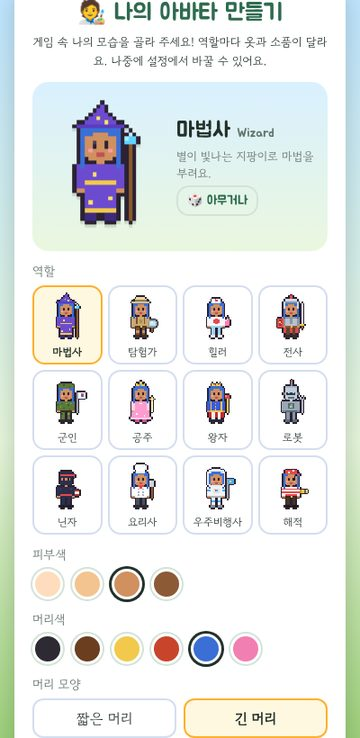
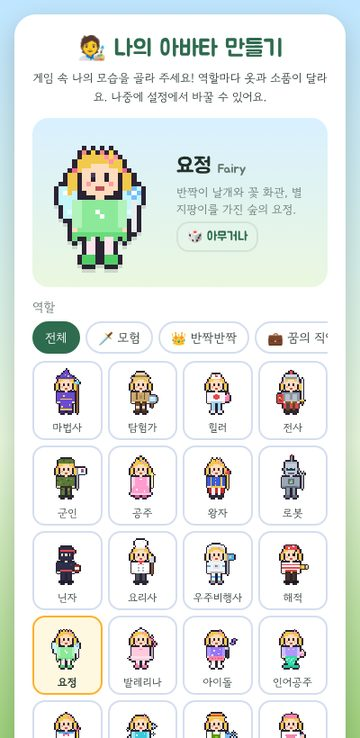
아바타: 여자 아이들을 위한 역할 10가지 + 머리 모양·장식 추가
- 요정·발레리나·아이돌·인어공주·마법소녀·피겨 선수·꽃 정원사·파티시에·수의사·화가 (모두 22가지)
- 머리 모양: 양갈래·포니테일·똥머리, 머리 장식: 리본·꽃핀·머리띠·별핀
- 역할 묶음 탭: 모험 / 반짝반짝 / 꿈의 직업
- README·설명서 갱신

Claude-Session: https://claude.ai/code/session_01LTi17QLDfgcv9py89CBzzb

diff --git a/js/avatar.js b/js/avatar.js
@@ -1,6 +1,6 @@
 // 🧑🎨 나의 픽셀 아바타
-// - 역할(마법사·탐험가·힐러·전사·군인·공주·왕자·로봇·닌자·요리사·우주비행사·해적)마다 옷과 소품이 달라요.
-// - 피부색·머리색·머리 모양을 고를 수 있어요.
+// - 역할 22가지(모험·반짝반짝·꿈의 직업)마다 옷과 소품이 달라요.
+// - 피부색·머리색·머리 모양(짧은·긴·양갈래·포니테일·똥머리)·머리 장식을 고를 수 있어요.
 // - 26×33 칸에 한 칸씩 색을 칠한 뒤, 바깥 테두리를 자동으로 그려 픽셀 게임 느낌을 내요. (SVG로 그려 어디서나 선명)
 
 export const ROLES = [
@@ -16,21 +16,50 @@ export const ROLES = [
   { id: 'chef', name: '요리사', en: 'Chef', desc: '높은 모자를 쓰고 맛있는 요리를 해요.' },
   { id: 'astronaut', name: '우주비행사', en: 'Astronaut', desc: '헬멧을 쓰고 우주로 출발!' },
   { id: 'pirate', name: '해적', en: 'Pirate', desc: '망원경으로 보물섬을 찾는 해적.' },
+  { id: 'fairy', name: '요정', en: 'Fairy', desc: '반짝이 날개와 꽃 화관, 별 지팡이를 가진 숲의 요정.' },
+  { id: 'ballerina', name: '발레리나', en: 'Ballerina', desc: '하늘하늘 튀튀를 입고 리본을 휘날려요.' },
+  { id: 'idol', name: '아이돌', en: 'Idol', desc: '반짝이 무대 옷에 마이크! 노래하고 춤춰요.' },
+  { id: 'mermaid', name: '인어공주', en: 'Mermaid', desc: '반짝이는 꼬리로 바다를 헤엄쳐요.' },
+  { id: 'magical', name: '마법소녀', en: 'Magical Girl', desc: '하트 요술봉으로 세상을 지켜요!' },
+  { id: 'skater', name: '피겨 선수', en: 'Figure Skater', desc: '하얀 스케이트로 얼음 위를 빙글빙글.' },
+  { id: 'gardener', name: '꽃 정원사', en: 'Gardener', desc: '밀짚모자를 쓰고 물뿌리개로 꽃을 키워요.' },
+  { id: 'baker', name: '파티시에', en: 'Baker', desc: '달콤한 컵케이크를 만드는 제빵사.' },
+  { id: 'vet', name: '수의사', en: 'Vet', desc: '청진기를 걸고 아픈 강아지를 돌봐요.' },
+  { id: 'artist', name: '화가', en: 'Artist', desc: '베레모를 쓰고 팔레트로 그림을 그려요.' },
+];
+// 역할 묶음 (만들기 화면 탭)
+export const ROLE_CATS = [
+  { id: 'all', name: '전체' },
+  { id: 'adv', name: '🗡 모험', roles: ['wizard', 'explorer', 'warrior', 'soldier', 'ninja', 'pirate', 'robot', 'astronaut'] },
+  { id: 'sparkle', name: '👑 반짝반짝', roles: ['princess', 'prince', 'fairy', 'ballerina', 'idol', 'mermaid', 'magical', 'skater'] },
+  { id: 'job', name: '💼 꿈의 직업', roles: ['healer', 'chef', 'gardener', 'baker', 'vet', 'artist'] },
 ];
 export const roleById = Object.fromEntries(ROLES.map(r => [r.id, r]));
 
 export const SKINS = ['#ffdcbd', '#f3c48f', '#d09060', '#8d5a36'];
 export const HAIRS = ['#2e2a33', '#6b3e1f', '#f2c94c', '#c8452c', '#3b6fd6', '#f27fb2'];
 export const HAIR_NAMES = ['검정', '갈색', '금발', '빨강', '파랑', '분홍'];
-export const STYLES = [{ id: 'short', name: '짧은 머리' }, { id: 'long', name: '긴 머리' }];
+export const STYLES = [
+  { id: 'short', name: '짧은 머리' }, { id: 'long', name: '긴 머리' }, { id: 'pigtails', name: '양갈래' },
+  { id: 'ponytail', name: '포니테일' }, { id: 'bun', name: '똥머리' },
+];
+export const ACCS = [
+  { id: 'none', name: '없음' }, { id: 'ribbon', name: '🎀 리본' }, { id: 'flower', name: '🌸 꽃핀' },
+  { id: 'headband', name: '머리띠' }, { id: 'star', name: '⭐ 별핀' },
+];
+const STYLE_IDS = STYLES.map(x => x.id);
+const ACC_IDS = ACCS.map(x => x.id);
 
-export const DEFAULT_AVATAR = { role: 'explorer', skin: 0, hair: 1, style: 'short' };
+export const DEFAULT_AVATAR = { role: 'explorer', skin: 0, hair: 1, style: 'short', acc: 'none' };
 
 /** 저장된 값·친구에게 받은 값을 믿지 않고 아는 값만 남김 */
 export function cleanAvatar(a) {
   if (!a || typeof a !== 'object' || !roleById[a.role]) return null;
   const n = (v, max) => (Number.isInteger(v) && v >= 0 && v < max ? v : 0);
-  return { role: a.role, skin: n(a.skin, SKINS.length), hair: n(a.hair, HAIRS.length), style: a.style === 'long' ? 'long' : 'short' };
+  return {
+    role: a.role, skin: n(a.skin, SKINS.length), hair: n(a.hair, HAIRS.length),
+    style: STYLE_IDS.includes(a.style) ? a.style : 'short', acc: ACC_IDS.includes(a.acc) ? a.acc : 'none',
+  };
 }
 
 const W = 26;
@@ -50,7 +79,7 @@ function draw(av) {
   const rect = (x, y, w, h, c) => { for (let j = 0; j < h; j++) for (let i = 0; i < w; i++) px(x + i, y + j, c); };
   const skin = av.role === 'robot' ? '#c3ccd6' : SKINS[av.skin];
   const hair = HAIRS[av.hair];
-  const long = av.style === 'long';
+  const long = av.style === 'long' || av.style === 'pigtails';
   const role = av.role;
 
   // 옷 색 (윗옷, 소매, 바지, 신발)
@@ -67,18 +96,38 @@ function draw(av) {
     chef: ['#ffffff', '#ffffff', '#4a4f5a', '#2b2b33'],
     astronaut: ['#f1f3f5', '#f1f3f5', '#f1f3f5', '#868e96'],
     pirate: ['#ffffff', '#ffffff', '#4a3324', '#1f1a17'],
+    fairy: ['#8ce99a', '#b2f2bb', '#ffe3ec', '#51cf66'],
+    ballerina: ['#ffc9de', '#ffc9de', '#ffe3ec', '#f783ac'],
+    idol: ['#9775fa', '#b197fc', skin, '#ffffff'],
+    mermaid: ['#b197fc', '#d0bfff', '#38d9a9', '#20c997'],
+    magical: ['#ffffff', '#ffffff', skin, '#f783ac'],
+    skater: ['#3bc9db', '#99e9f2', '#ffe3ec', '#ffffff'],
+    gardener: ['#ffffff', '#ffffff', '#5c940d', '#8b5a2b'],
+    baker: ['#ffffff', '#ffffff', '#f783ac', '#c2255c'],
+    vet: ['#74c0fc', '#74c0fc', '#74c0fc', '#ffffff'],
+    artist: ['#fff9db', '#fff9db', '#4dabf7', '#495057'],
   }[role];
+  const noHair = role === 'robot' || role === 'ninja';
+  const hideBack = noHair || role === 'astronaut';
+  const style = av.style;
   const [top, sleeve, pants, shoes] = O;
 
   // ---- 뒤쪽 (망토·긴 머리) ----
   if (role === 'warrior' || role === 'prince') rect(5, 14, 10, 11, role === 'warrior' ? '#d94a4a' : '#c92a2a');
-  if (long && role !== 'robot' && role !== 'ninja' && role !== 'astronaut') { rect(5, 6, 1, 9, hair); rect(14, 6, 1, 9, hair); }
+  if (av.style === 'long' && !hideBack) { rect(5, 6, 1, 9, hair); rect(14, 6, 1, 9, hair); }
+  if (role === 'fairy') { // 반짝이 날개
+    const wg = '#c5f6fa';
+    rect(1, 11, 4, 4, wg); rect(2, 15, 3, 3, wg); rect(15, 11, 4, 4, wg); rect(15, 15, 3, 3, wg);
+    px(2, 12, '#ffffff'); px(16, 12, '#ffffff'); px(3, 16, '#e3fafc'); px(16, 16, '#e3fafc');
+  }
   if (role === 'astronaut') rect(4, 14, 1, 6, '#ced4da'); // 산소통
 
-  // ---- 다리·신발 ----
-  rect(7, 21, 2, 5, pants); rect(11, 21, 2, 5, pants);
-  if (role === 'explorer') { rect(7, 23, 2, 2, skin); rect(11, 23, 2, 2, skin); }
-  rect(6, 26, 3, 2, shoes); rect(11, 26, 3, 2, shoes);
+  // ---- 다리·신발 (인어공주는 꼬리) ----
+  if (role !== 'mermaid') {
+    rect(7, 21, 2, 5, pants); rect(11, 21, 2, 5, pants);
+    if (role === 'explorer') { rect(7, 23, 2, 2, skin); rect(11, 23, 2, 2, skin); }
+    rect(6, 26, 3, 2, shoes); rect(11, 26, 3, 2, shoes);
+  }
 
   // ---- 몸통·팔 ----
   rect(6, 14, 8, 7, top);
@@ -96,11 +145,23 @@ function draw(av) {
     rect(9, 11, 2, 1, C.mouth);
   }
   // 머리카락 (모자 아래로 앞머리·옆머리)
-  if (role !== 'robot' && role !== 'ninja') {
+  if (!noHair) {
     rect(6, 4, 8, 2, hair); px(5, 5, hair); px(14, 5, hair);
     px(6, 6, hair); px(7, 6, hair); px(12, 6, hair); px(13, 6, hair);
     px(5, 6, hair); px(14, 6, hair); px(5, 7, hair); px(14, 7, hair);
-    if (long) { rect(5, 8, 1, 7, hair); rect(14, 8, 1, 7, hair); }
+    if (style === 'long') { rect(5, 8, 1, 7, hair); rect(14, 8, 1, 7, hair); }
+    if (style === 'pigtails') { // 양갈래
+      px(4, 7, '#f06595'); px(15, 7, '#f06595');
+      rect(3, 8, 2, 4, hair); rect(15, 8, 2, 4, hair); px(3, 12, hair); px(16, 12, hair);
+    }
+    if (style === 'ponytail') { px(15, 5, '#f06595'); rect(15, 6, 2, 4, hair); rect(15, 10, 1, 3, hair); }
+    if (style === 'bun') { rect(8, 2, 4, 2, hair); rect(9, 1, 2, 1, hair); px(9, 2, hair); }
+    // 머리 장식 (모자를 쓰면 모자가 덮어요)
+    const PK = '#f06595';
+    if (av.acc === 'ribbon') { px(5, 2, PK); px(5, 3, PK); px(7, 2, PK); px(7, 3, PK); px(6, 3, '#c2255c'); }
+    if (av.acc === 'flower') { px(12, 4, '#ffd43b'); px(11, 4, '#ff8fb8'); px(13, 4, '#ff8fb8'); px(12, 3, '#ff8fb8'); px(12, 5, '#ff8fb8'); }
+    if (av.acc === 'headband') rect(6, 4, 8, 1, PK);
+    if (av.acc === 'star') { px(12, 3, '#ffd43b'); px(11, 4, '#ffd43b'); px(12, 4, '#fff3bf'); px(13, 4, '#ffd43b'); px(12, 5, '#ffd43b'); }
   }
 
   // ---- 역할별 옷 무늬·모자·소품 ----
@@ -204,6 +265,87 @@ function draw(av) {
     }
   }
 
+  switch (role) {
+    case 'fairy': {
+      rect(5, 20, 10, 1, '#8ce99a'); rect(4, 21, 12, 1, '#69db7c'); for (const x of [4, 7, 10, 13, 15]) px(x, 22, '#69db7c');
+      for (const [x, c] of [[6, '#ff8787'], [8, '#ffd43b'], [10, '#ff8787'], [12, '#ffd43b']]) px(x, 3, c);
+      px(9, 16, '#ffffff'); px(10, 17, '#ffffff');
+      rect(17, 14, 1, 7, '#e9ecef'); rect(16, 12, 3, 1, '#74c0fc'); rect(17, 11, 1, 3, '#74c0fc'); px(17, 12, '#ffffff');
+      break;
+    }
+    case 'ballerina': {
+      rect(3, 20, 14, 2, '#ffdeeb'); px(2, 21, '#ffdeeb'); px(17, 21, '#ffdeeb'); rect(4, 22, 12, 1, '#fcc2d7');
+      px(9, 15, '#f783ac'); px(10, 15, '#f783ac'); px(7, 25, '#f783ac'); px(12, 25, '#f783ac');
+      rect(8, 3, 4, 1, '#e9ecef'); px(9, 2, '#a5d8ff'); px(10, 2, '#e9ecef');
+      rect(17, 15, 1, 6, '#adb5bd');
+      for (const [x, y] of [[17, 14], [18, 13], [19, 12], [19, 11], [18, 10], [17, 9], [16, 9], [16, 8], [17, 7]]) px(x, y, '#f783ac');
+      break;
+    }
+    case 'idol': {
+      px(8, 16, '#fff3bf'); px(11, 18, '#fff3bf'); px(12, 15, '#ffffff'); px(7, 19, '#ffffff');
+      rect(5, 20, 10, 3, '#f783ac'); for (const x of [7, 9, 11, 13]) px(x, 21, '#e64980');
+      rect(7, 24, 2, 2, '#ffffff'); rect(11, 24, 2, 2, '#ffffff');
+      rect(17, 16, 1, 5, '#343a40'); rect(16, 14, 2, 2, '#adb5bd'); px(16, 14, '#dee2e6');
+      for (const [x, y] of [[21, 9], [21, 10], [21, 11], [20, 11], [22, 9]]) px(x, y, '#9775fa');
+      break;
+    }
+    case 'mermaid': {
+      const T = '#38d9a9';
+      rect(6, 20, 8, 3, T); rect(7, 23, 6, 2, T); rect(8, 25, 4, 1, T);
+      rect(5, 26, 4, 2, '#20c997'); rect(11, 26, 4, 2, '#20c997'); px(9, 26, '#20c997'); px(10, 26, '#20c997');
+      for (const [x, y] of [[8, 21], [11, 21], [10, 22], [9, 23], [11, 24], [7, 22]]) px(x, y, '#96f2d7');
+      px(8, 15, '#ffc9de'); px(11, 15, '#ffc9de'); px(6, 19, '#d0bfff');
+      rect(16, 17, 3, 3, '#ffc9de'); px(17, 16, '#ffc9de'); px(17, 18, '#f783ac'); px(16, 19, '#f783ac'); px(18, 19, '#f783ac');
+      break;
+    }
+    case 'magical': {
+      rect(6, 14, 8, 1, '#4dabf7'); px(5, 14, '#4dabf7'); px(14, 14, '#4dabf7');
+      px(8, 15, '#f06595'); px(11, 15, '#f06595'); px(8, 16, '#f06595'); px(11, 16, '#f06595'); px(9, 15, '#c2255c'); px(10, 15, '#c2255c');
+      rect(5, 20, 10, 2, '#4dabf7'); for (const x of [7, 10, 12]) px(x, 21, '#339af0');
+      rect(6, 24, 3, 2, '#f783ac'); rect(11, 24, 3, 2, '#f783ac');
+      rect(8, 3, 4, 1, C.gold); px(9, 2, C.gold); px(10, 2, '#f06595');
+      rect(17, 14, 1, 7, '#ffd43b');
+      for (const [x, y] of [[16, 11], [18, 11], [16, 12], [17, 12], [18, 12], [17, 13]]) px(x, y, '#f06595');
+      px(16, 11, '#ffa8c5');
+      break;
+    }
+    case 'skater': {
+      rect(5, 20, 10, 2, '#3bc9db'); px(4, 21, '#3bc9db'); px(15, 21, '#3bc9db');
+      px(7, 16, '#ffffff'); px(11, 18, '#ffffff'); px(9, 20, '#ffffff'); px(12, 15, '#e3fafc');
+      rect(6, 28, 3, 1, '#adb5bd'); rect(11, 28, 3, 1, '#adb5bd');
+      for (const [x, y] of [[18, 9], [17, 10], [18, 10], [19, 10], [18, 11]]) px(x, y, '#a5d8ff');
+      px(1, 12, '#a5d8ff'); px(18, 15, '#a5d8ff'); px(2, 17, '#d0ebff');
+      break;
+    }
+    case 'gardener': {
+      rect(7, 16, 6, 5, '#5c940d'); rect(7, 14, 1, 2, '#5c940d'); rect(12, 14, 1, 2, '#5c940d'); px(9, 17, '#82c91e'); px(10, 17, '#82c91e');
+      rect(4, 4, 12, 1, '#f2c86b'); rect(6, 2, 8, 2, '#f2c86b'); rect(6, 3, 8, 1, '#e8590c'); px(12, 2, '#ff8787'); px(13, 2, '#ffd43b');
+      rect(16, 16, 3, 3, '#74c0fc'); px(19, 16, '#74c0fc'); px(20, 15, '#74c0fc'); px(21, 14, '#4dabf7');
+      px(16, 15, '#4dabf7'); px(17, 14, '#4dabf7'); px(18, 15, '#4dabf7'); px(22, 15, '#a5d8ff'); px(22, 17, '#a5d8ff'); px(21, 16, '#a5d8ff');
+      break;
+    }
+    case 'baker': {
+      rect(7, 16, 6, 6, '#f783ac'); rect(6, 16, 1, 1, '#f783ac'); rect(13, 16, 1, 1, '#f783ac'); px(9, 18, '#fcc2d7'); px(10, 18, '#fcc2d7');
+      rect(6, 3, 8, 2, '#f783ac'); px(5, 4, '#f783ac'); px(10, 2, '#c2255c');
+      rect(16, 18, 3, 2, '#c08457'); px(16, 19, '#a0673a'); rect(16, 16, 3, 2, '#ffc9de'); px(17, 15, '#e03131'); px(16, 16, '#74c0fc'); px(18, 17, '#ffd43b');
+      break;
+    }
+    case 'vet': {
+      for (const [x, y] of [[8, 14], [8, 15], [9, 16], [10, 16], [11, 15], [11, 14]]) px(x, y, '#495057');
+      px(10, 17, '#adb5bd'); rect(6, 20, 8, 1, '#4dabf7');
+      rect(16, 18, 4, 2, '#c08457'); rect(19, 16, 2, 2, '#c08457'); px(20, 15, '#8b5a2b'); px(20, 16, '#2b2233');
+      px(16, 17, '#c08457'); px(16, 20, '#8b5a2b'); px(19, 20, '#8b5a2b'); px(21, 17, '#2b2233');
+      break;
+    }
+    case 'artist': {
+      px(8, 16, '#ff6b6b'); px(11, 17, '#4dabf7'); px(9, 19, '#ffd43b'); px(12, 19, '#51cf66');
+      rect(6, 3, 8, 2, '#e03131'); px(5, 4, '#e03131'); px(10, 2, '#c92a2a');
+      rect(16, 16, 4, 3, '#d9a066'); px(16, 16, '#ff6b6b'); px(18, 16, '#4dabf7'); px(17, 18, '#ffd43b'); px(19, 17, '#51cf66');
+      rect(20, 12, 1, 4, '#8b5a2b'); px(20, 11, '#ff6b6b');
+      break;
+    }
+  }
+
   // ---- 바깥 테두리 ----
   const out = g.map(r => r.slice());
   for (let y = 0; y < H; y++) for (let x = 0; x < W; x++) {
@@ -221,7 +363,7 @@ const cache = new Map();
  */
 export function avatarSVG(a, opts = {}) {
   const av = cleanAvatar(a) || DEFAULT_AVATAR;
-  const key = `${av.role}|${av.skin}|${av.hair}|${av.style}`;
+  const key = `${av.role}|${av.skin}|${av.hair}|${av.style}|${av.acc}`;
   let body = cache.get(key);
   if (!body) {
     const g = draw(av);

diff --git a/js/avatar-ui.js b/js/avatar-ui.js
@@ -1,11 +1,12 @@
 // 🧑🎨 아바타 만들기 화면 (처음 시작할 때, 설정에서 바꿀 때)
 
 import { store } from './store.js';
-import { ROLES, roleById, SKINS, HAIRS, HAIR_NAMES, STYLES, DEFAULT_AVATAR, cleanAvatar, avatarSVG } from './avatar.js';
+import { ROLES, ROLE_CATS, roleById, SKINS, HAIRS, HAIR_NAMES, STYLES, ACCS, DEFAULT_AVATAR, cleanAvatar, avatarSVG } from './avatar.js';
 
 const $ = (id) => document.getElementById(id);
 let draft = { ...DEFAULT_AVATAR };
 let doneFn = null;
+let cat = 'all';
 
 /** 지금 내 아바타 (없으면 null) */
 export const myAvatar = () => cleanAvatar(store.state.avatar);
@@ -15,20 +16,25 @@ function render() {
   $('av-preview').innerHTML = avatarSVG(draft, { size: 168, cls: 'av-big' });
   $('av-role-name').innerHTML = `${r.name} <small lang="en">${r.en}</small>`;
   $('av-role-desc').textContent = r.desc;
-  $('av-roles').innerHTML = ROLES.map(x => `<button type="button" class="av-role ${x.id === draft.role ? 'on' : ''}" data-role="${x.id}" aria-pressed="${x.id === draft.role}">
+  $('av-cats').innerHTML = ROLE_CATS.map(c => `<button type="button" class="av-cat ${c.id === cat ? 'on' : ''}" data-cat="${c.id}">${c.name}</button>`).join('');
+  const shown = cat === 'all' ? ROLES : ROLES.filter(x => ROLE_CATS.find(c => c.id === cat).roles.includes(x.id));
+  $('av-roles').innerHTML = shown.map(x => `<button type="button" class="av-role ${x.id === draft.role ? 'on' : ''}" data-role="${x.id}" aria-pressed="${x.id === draft.role}">
       ${avatarSVG({ ...draft, role: x.id }, { size: 58 })}<span>${x.name}</span></button>`).join('');
   $('av-skins').innerHTML = SKINS.map((c, i) => `<button type="button" class="color-dot ${i === draft.skin ? 'on' : ''}" style="background:${c}" data-skin="${i}" aria-label="피부색 ${i + 1}"></button>`).join('');
   $('av-hairs').innerHTML = HAIRS.map((c, i) => `<button type="button" class="color-dot ${i === draft.hair ? 'on' : ''}" style="background:${c}" data-hair="${i}" aria-label="머리색 ${HAIR_NAMES[i]}"></button>`).join('');
   $('av-styles').innerHTML = STYLES.map(s => `<button type="button" class="av-style ${s.id === draft.style ? 'on' : ''}" data-style="${s.id}">${s.name}</button>`).join('');
+  $('av-accs').innerHTML = ACCS.map(a => `<button type="button" class="av-style ${a.id === draft.acc ? 'on' : ''}" data-acc="${a.id}">${a.name}</button>`).join('');
 }
 
 function pick(e) {
   const b = e.target.closest('button');
   if (!b) return;
+  if (b.dataset.cat) { cat = b.dataset.cat; render(); return; }
   if (b.dataset.role) draft.role = b.dataset.role;
   else if (b.dataset.skin) draft.skin = +b.dataset.skin;
   else if (b.dataset.hair) draft.hair = +b.dataset.hair;
   else if (b.dataset.style) draft.style = b.dataset.style;
+  else if (b.dataset.acc) draft.acc = b.dataset.acc;
   else return;
   render();
   const big = $('av-preview').firstElementChild;
@@ -41,6 +47,7 @@ function pick(e) {
  */
 export function openAvatarMaker(opts = {}) {
   draft = { ...(myAvatar() || DEFAULT_AVATAR) };
+  cat = 'all';
   doneFn = opts.onDone || null;
   $('av-title').textContent = opts.first ? '🧑🎨 나의 아바타 만들기' : '🧑🎨 아바타 바꾸기';
   $('av-lead').textContent = opts.first
@@ -53,14 +60,16 @@ export function openAvatarMaker(opts = {}) {
 }
 
 export function initAvatarUI() {
-  for (const id of ['av-roles', 'av-skins', 'av-hairs', 'av-styles']) $(id).addEventListener('click', pick);
+  for (const id of ['av-cats', 'av-roles', 'av-skins', 'av-hairs', 'av-styles', 'av-accs']) $(id).addEventListener('click', pick);
   $('av-random').addEventListener('click', () => {
     draft = {
       role: ROLES[Math.floor(Math.random() * ROLES.length)].id,
       skin: Math.floor(Math.random() * SKINS.length),
       hair: Math.floor(Math.random() * HAIRS.length),
-      style: Math.random() < 0.5 ? 'short' : 'long',
+      style: STYLES[Math.floor(Math.random() * STYLES.length)].id,
+      acc: ACCS[Math.floor(Math.random() * ACCS.length)].id,
     };
+    cat = 'all';
     render();
   });
   $('av-close').addEventListener('click', () => { $('avatar-sheet').hidden = true; });

diff --git a/manual.html b/manual.html
@@ -107,12 +107,12 @@
   <div class="sec-h"><span class="no">1</span><h2>시작하기</h2></div>
   <p class="lead">처음 열면 나오는 화면이에요. 1분이면 준비 끝!</p>
   <div class="step">
-    <figure class="phone"><img src="manual/img/avatar.jpg" alt="나의 아바타 만들기: 역할 12가지와 피부색·머리색·머리 모양 고르기" loading="lazy" width="360" height="738"></figure>
+    <figure class="phone"><img src="manual/img/avatar.jpg" alt="나의 아바타 만들기: 역할 22가지와 피부색·머리색·머리 모양·머리 장식 고르기" loading="lazy" width="360" height="738"></figure>
     <div>
       <h3>🧑🎨 나의 아바타 만들기</h3>
       <ol>
-        <li>게임 속 내 모습의 <b>역할</b>을 골라요. 마법사·탐험가·힐러·전사·군인·공주·왕자·로봇·닌자·요리사·우주비행사·해적, 역할마다 옷과 소품이 달라요.</li>
-        <li><b>피부색·머리색·머리 모양</b>을 골라요. 고르기 어려우면 <span class="key">🎲 아무거나</span>!</li>
+        <li>게임 속 내 모습의 <b>역할</b>을 골라요. 🗡 모험(마법사·탐험가·전사·닌자·해적·로봇·우주비행사…), 👑 반짝반짝(공주·왕자·요정·발레리나·아이돌·인어공주·마법소녀·피겨 선수), 💼 꿈의 직업(힐러·요리사·꽃 정원사·파티시에·수의사·화가) 22가지, 역할마다 옷과 소품이 달라요.</li>
+        <li><b>피부색·머리색·머리 모양</b>(짧은·긴·양갈래·포니테일·똥머리)과 <b>머리 장식</b>(리본·꽃핀·머리띠·별핀)을 골라요. 고르기 어려우면 <span class="key">🎲 아무거나</span>!</li>
         <li><span class="key">이 모습으로 할래요!</span>를 누르면 닉네임 화면으로 넘어가요. 지도 위를 걷는 내 모습이 이 아바타예요. 설정에서 언제든 바꿀 수 있어요.</li>
       </ol>
     </div>

diff --git a/css/game.css b/css/game.css
@@ -1213,7 +1213,11 @@ body.xmas .wx-layer.clear, body.xmas .wx-layer.cloudy {
 .av-role { display: flex; flex-direction: column; align-items: center; gap: 2px; padding: 6px 2px 4px; border-radius: 14px; border: 2px solid #d4def0; background: #fff; font: inherit; font-size: 12px; color: inherit; }
 .av-role svg { width: 44px; height: auto; }
 .av-role.on { border-color: #ffb02e; background: #fff8e1; font-weight: 700; }
-.av-styles { display: flex; gap: 8px; }
+.av-styles { display: grid; grid-template-columns: repeat(auto-fill, minmax(86px, 1fr)); gap: 6px; }
+.av-styles .av-style { padding: 7px 4px; font-size: 14px; }
+.av-cats { display: flex; gap: 6px; overflow-x: auto; padding-bottom: 2px; }
+.av-cat { flex: none; padding: 6px 12px; border-radius: 999px; border: 2px solid #d4def0; background: #fff; font: inherit; font-size: 14px; color: inherit; }
+.av-cat.on { border-color: var(--forest); background: var(--forest); color: #fff; }
 .av-style { flex: 1; padding: 8px; border-radius: 12px; border: 2px solid #d4def0; background: #fff; font: inherit; color: inherit; }
 .av-style.on { border-color: #ffb02e; background: #fff8e1; font-weight: 700; }
 #av-done { margin-top: 10px; }

diff --git a/index.html b/index.html
@@ -259,6 +259,7 @@
         </div>
       </div>
       <span class="label">역할</span>
+      <div id="av-cats" class="av-cats" role="group" aria-label="역할 묶음"></div>
       <div id="av-roles" class="av-roles"></div>
       <span class="label">피부색</span>
       <div id="av-skins" class="colors"></div>
@@ -266,6 +267,8 @@
       <div id="av-hairs" class="colors"></div>
       <span class="label">머리 모양</span>
       <div id="av-styles" class="av-styles"></div>
+      <span class="label">머리 장식 <small>(모자를 쓰는 역할은 모자 아래로 가려져요)</small></span>
+      <div id="av-accs" class="av-styles"></div>
       <button id="av-done" class="btn primary" type="button">이 모습으로 할래요! ›</button>
     </div>
   </section>

diff --git a/README.md b/README.md
@@ -30,7 +30,7 @@ GPS 없이 집에서도 할 수 있고, 스마트폰·태블릿·PC 브라우저
 
 | 기능 | 설명 |
 |---|---|
-| 🧑🎨 나의 픽셀 아바타 | 처음 시작할 때 게임 속 내 모습을 만들어요. 역할 12가지(마법사·탐험가·힐러·전사·군인·공주·왕자·로봇·닌자·요리사·우주비행사·해적)마다 옷과 소품이 달라요 (별 지팡이, 돋보기, 물약, 칼과 방패, 깃발, 요술봉, 왕홀, 스패너, 두루마리, 뒤집개, 깃발, 망원경). 피부색 4가지·머리색 6가지·짧은/긴 머리를 고르고 🎲 아무거나도 있어요. 지도 위 내 모습, 상단 얼굴, 친구 순위에 보여요. 설정 → 🧑🎨 바꾸기로 언제든 바꿔요. 예전부터 놀던 친구는 처음 열 때 한 번 만들어요. |
+| 🧑🎨 나의 픽셀 아바타 | 처음 시작할 때 게임 속 내 모습을 만들어요. 역할 22가지를 🗡 모험(마법사·탐험가·전사·군인·닌자·해적·로봇·우주비행사), 👑 반짝반짝(공주·왕자·요정·발레리나·아이돌·인어공주·마법소녀·피겨 선수), 💼 꿈의 직업(힐러·요리사·꽃 정원사·파티시에·수의사·화가) 탭으로 골라요. 역할마다 옷과 소품이 달라요 (별 지팡이, 돋보기, 칼과 방패, 깃발, 요술봉, 요정 날개, 튀튀와 리본, 마이크, 인어 꼬리, 하트 요술봉, 스케이트, 물뿌리개, 컵케이크, 강아지, 팔레트…). 피부색 4가지·머리색 6가지·머리 모양 5가지(짧은·긴·양갈래·포니테일·똥머리)·머리 장식(리본·꽃핀·머리띠·별핀)을 고르고 🎲 아무거나도 있어요. 지도 위 내 모습, 상단 얼굴, 친구 순위에 보여요. 설정 → 🧑🎨 바꾸기로 언제든 바꿔요. 예전부터 놀던 친구는 처음 열 때 한 번 만들어요. |
 | 지도 · 화면 산책 | 실제 동네 지도(OpenStreetMap) 위를 화면에서 산책해요. **지도를 누르면 그쪽으로 걸어가고**(가는 곳에 주황 원), 몬스터·거점·재료·교회를 누르면 그 앞까지 걸어가서 바로 잡거나 받아요. 걷다가 다른 곳을 누르면 방향을 바꿔요. 마지막으로 멈춘 자리를 기억하고, 한숲시티 밖으로는 나가지 않아요. 위치 권한(GPS)은 쓰지 않아요. |
 | 출현 | 15분마다 주변에 새로 나타납니다. 같은 시간, 같은 장소에는 친구 모두에게 같은 것이 나타납니다. |
 | 거점 | 한숲시티 단지 거점에서 숲볼 5개와 간식 3개를 받습니다 (5분마다). |
